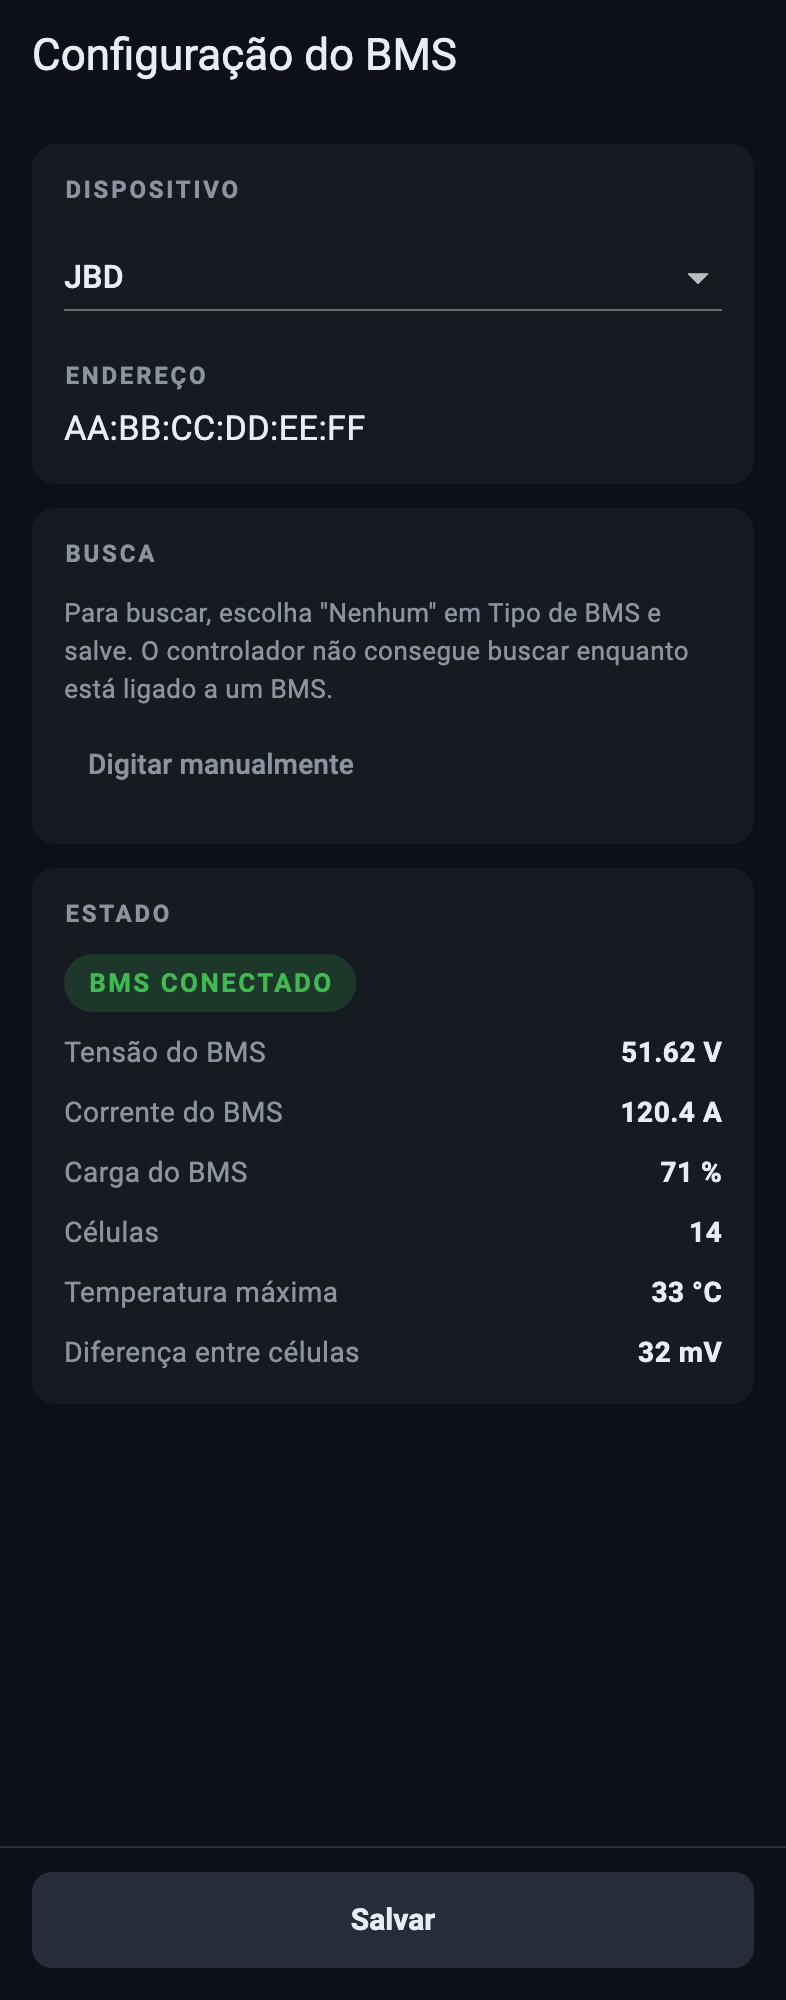
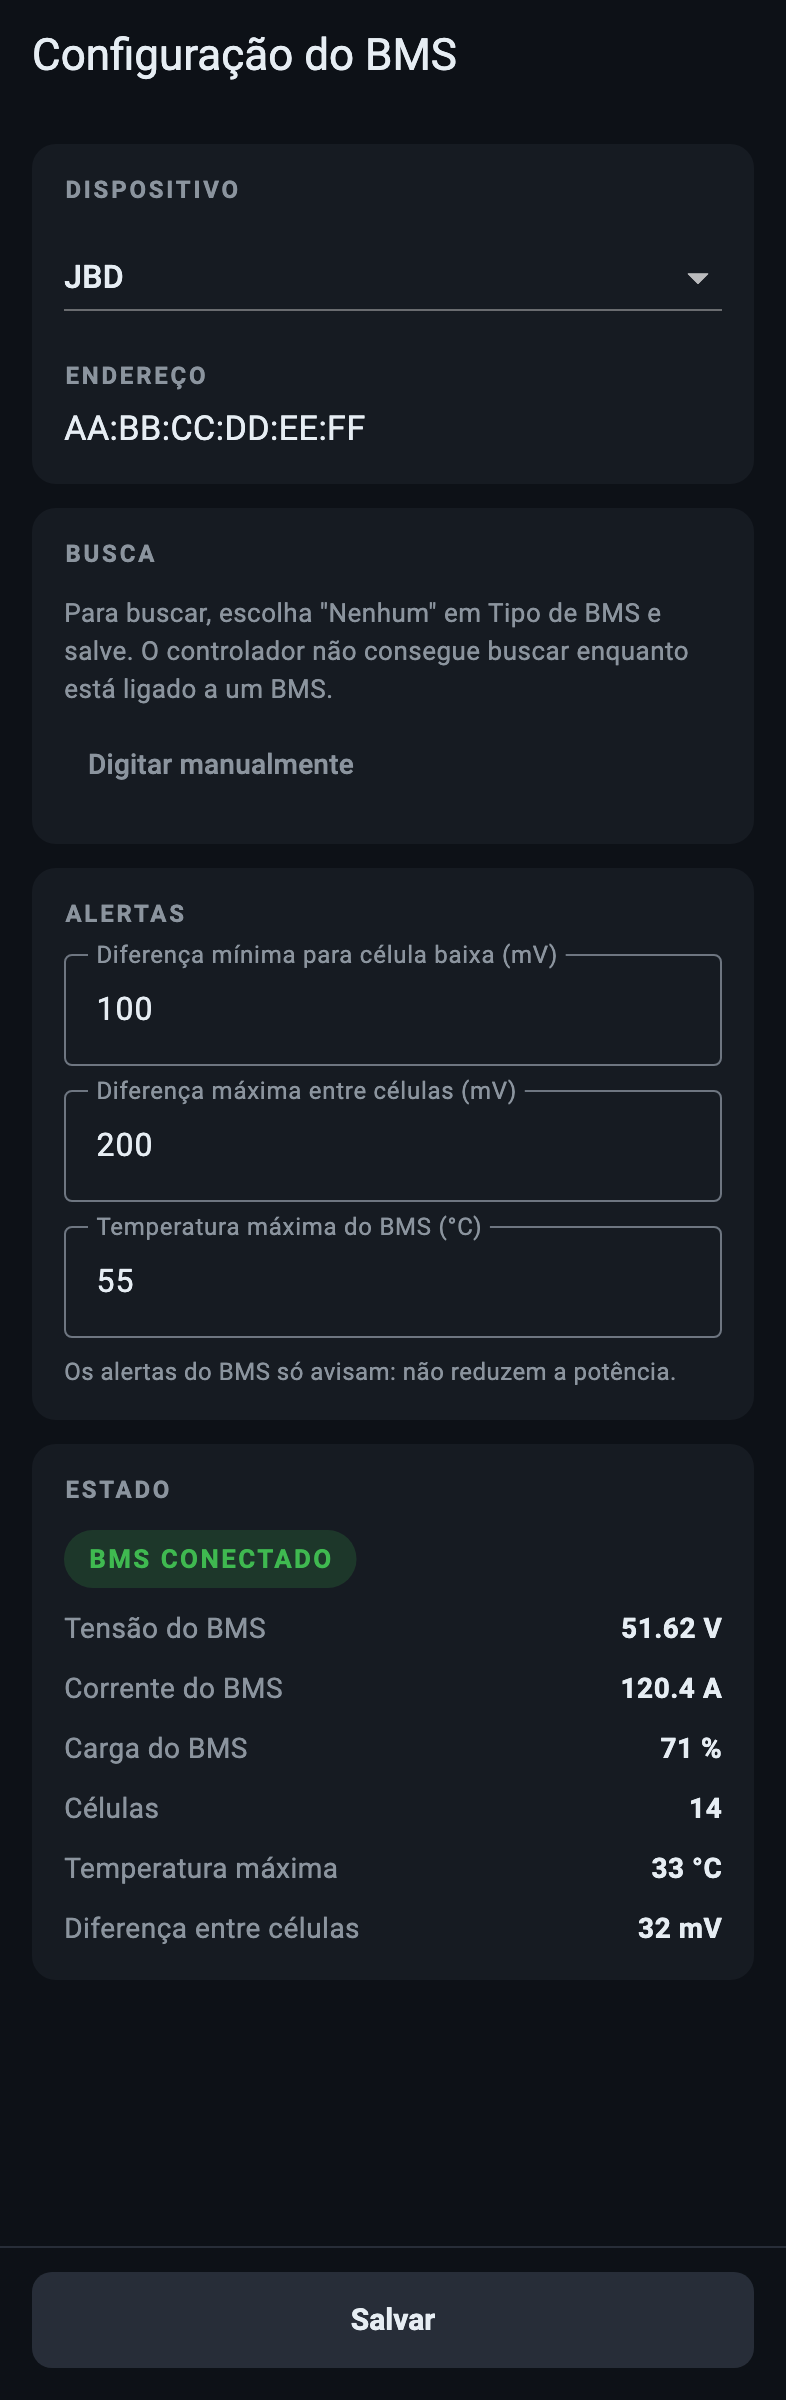
docs(manual): BMS alert screen and thresholds from the app (#90)
The manual already listed the BMS alerts and their three thresholds, but
the app could not show them yet. With fly-app's support in place, it now
has the screenshot of a BMS alert on the flight panel (Figura 6, later
figures renumbered) and the BMS screen with its ALERTAS card. The text
says that the alerts appear armed or disarmed, and that older firmware
shows neither the alerts nor the card.

CLAUDE.md still said BmsAlert needed a live BMS link because the JBD and
Daly drivers kept their last values. The last commit of #88 made every
driver clear its readings on disconnect and dropped that guard.

diff --git a/docs/manual/README.md b/docs/manual/README.md
@@ -232,6 +232,13 @@ Os alertas aparecem sempre no cartão de alerta, nunca em faixas ou janelas. A c
 
 Os três alertas do BMS apenas avisam: eles nunca reduzem a potência nem desarmam o motor. O som toca somente com o sistema armado, no buzzer e no remote. Um alerta só liga ou desliga depois de 3 segundos na mesma condição, e some na hora se a conexão com o BMS cair.
 
+O cartão mostra os alertas do BMS com o sistema armado ou desarmado; só o som depende de estar armado. Eles exigem um firmware com alertas do BMS e uma versão do app que os conheça. Com um firmware mais antigo, nenhum deles aparece.
+
+<p align="center">
+  <img src="img/21_bms_alerta.png" width="300" alt="Célula baixa no BMS"><br>
+  <em>Figura 6: Célula baixa no BMS</em>
+</p>
+
 O cartão de alerta pode ficar âmbar com os mostradores ainda verdes: ele também reflete a limitação que o próprio controlador informa.
 
 ### Desarme por falha
@@ -240,7 +247,7 @@ Quando o controlador desarma por falha, o código aparece em vermelho na barra d
 
 <p align="center">
   <img src="img/05_falha_desarme.png" width="300" alt="Desarme por falha do acelerador (THR ERR)"><br>
-  <em>Figura 6: Desarme por falha do acelerador (THR ERR)</em>
+  <em>Figura 7: Desarme por falha do acelerador (THR ERR)</em>
 </p>
 
 | Código | Alerta | Causa |
@@ -257,7 +264,7 @@ Uma leitura sem valor confiável mostra um traço, nunca zero, com o motivo abai
 
 <p align="center">
   <img src="img/07_sensor_ausente.png" width="300" alt="Temperatura do motor sem leitura"><br>
-  <em>Figura 7: Temperatura do motor sem leitura</em>
+  <em>Figura 8: Temperatura do motor sem leitura</em>
 </p>
 
 ### Perda de conexão
@@ -266,14 +273,14 @@ Se os dados param de chegar por 3 segundos, todos os valores viram traço e a ba
 
 <p align="center">
   <img src="img/06_reconectando.png" width="300" alt="Conexão perdida, app reconectando"><br>
-  <em>Figura 8: Conexão perdida, app reconectando</em>
+  <em>Figura 9: Conexão perdida, app reconectando</em>
 </p>
 
 Toque no indicador de status para escolher: **Reconectar** tenta de novo sem sair do painel; **Desconectar** volta para a tela inicial. Se o último dado dizia ARMADO, o app avisa. Desconectar o app não desliga o motor.
 
 <p align="center">
   <img src="img/10_dialogo_conexao.png" width="300" alt="Toque no indicador de status: Reconectar ou Desconectar"><br>
-  <em>Figura 9: Toque no indicador de status: Reconectar ou Desconectar</em>
+  <em>Figura 10: Toque no indicador de status: Reconectar ou Desconectar</em>
 </p>
 
 ### Gaveta
@@ -287,7 +294,7 @@ Toque na barra CONFIGURAÇÕES no rodapé, ou no cartão de alerta, para abrir a
 
 <p align="center">
   <img src="img/08_gaveta.png" width="300" alt="Gaveta: alertas, som, orientação e configurações"><br>
-  <em>Figura 10: Gaveta: alertas, som, orientação e configurações</em>
+  <em>Figura 11: Gaveta: alertas, som, orientação e configurações</em>
 </p>
 
 ### Detalhes
@@ -301,7 +308,7 @@ Arraste a barra de status para baixo, até cerca de 40 % da altura da tela, para
 
 <p align="center">
   <img src="img/09_detalhes.png" width="300" alt="Tela de detalhes"><br>
-  <em>Figura 11: Tela de detalhes</em>
+  <em>Figura 12: Tela de detalhes</em>
 </p>
 
 ## Configurações
@@ -310,7 +317,7 @@ Abra pela gaveta, em Configurações, com a aeronave desarmada. O topo mostra a 
 
 <p align="center">
   <img src="img/12_configuracoes.png" width="300" alt="Índice de configurações"><br>
-  <em>Figura 12: Índice de configurações</em>
+  <em>Figura 13: Índice de configurações</em>
 </p>
 
 ### PIN de configuração
@@ -319,7 +326,7 @@ Ver as configurações não pede PIN. O PIN é pedido na primeira gravação de 
 
 <p align="center">
   <img src="img/20_pin.png" width="300" alt="Pedido do PIN na primeira gravação"><br>
-  <em>Figura 13: Pedido do PIN na primeira gravação</em>
+  <em>Figura 14: Pedido do PIN na primeira gravação</em>
 </p>
 
 | Ação | Pede PIN |
@@ -339,7 +346,7 @@ O relógio do controlador é acertado pelo app automaticamente a cada conexão, 
 
 <p align="center">
   <img src="img/13_energia.png" width="300" alt="Bateria e Energia"><br>
-  <em>Figura 14: Bateria e Energia</em>
+  <em>Figura 15: Bateria e Energia</em>
 </p>
 
 | Parâmetro | Descrição | Faixa |
@@ -363,7 +370,7 @@ Com um BMS JBD ou JK conectado, o controlador usa a capacidade que o BMS informa
 
 <p align="center">
   <img src="img/14_termica.png" width="300" alt="Proteção Térmica"><br>
-  <em>Figura 15: Proteção Térmica</em>
+  <em>Figura 16: Proteção Térmica</em>
 </p>
 
 | Parâmetro | Descrição | Faixa |
@@ -382,7 +389,7 @@ Esses valores são os traços âmbar e vermelho dos mostradores de temperatura n
 
 <p align="center">
   <img src="img/15_bms.png" width="300" alt="BMS configurado e conectado"><br>
-  <em>Figura 16: BMS configurado e conectado</em>
+  <em>Figura 17: BMS configurado e conectado</em>
 </p>
 
 | Parâmetro | Descrição |
@@ -395,13 +402,15 @@ Esses valores são os traços âmbar e vermelho dos mostradores de temperatura n
 
 Os alertas do BMS só avisam: não reduzem a potência. Os limites ficam salvos no controlador.
 
+Os três limites ficam no cartão Alertas, que só aparece com um firmware que tenha os alertas do BMS. Com um firmware mais antigo, a tela mostra apenas o tipo e o endereço.
+
 A seção Estado mostra a conexão com o BMS e, quando conectado, a tensão, a corrente, a carga, o número de células, a temperatura máxima e a diferença entre células.
 
 **Busca:** o botão Buscar BMS só aparece quando o tipo gravado é Nenhum, porque o controlador não consegue buscar enquanto está ligado a um BMS. Para trocar de BMS, escolha Nenhum, salve e então busque. A busca leva 5 segundos; durante esse tempo o controlador não aparece para novas conexões.
 
 <p align="center">
   <img src="img/16_bms_busca.png" width="300" alt="BMS: busca disponível sem BMS configurado"><br>
-  <em>Figura 17: BMS: busca disponível sem BMS configurado</em>
+  <em>Figura 18: BMS: busca disponível sem BMS configurado</em>
 </p>
 
 Toque num resultado para preencher o endereço. Se o BMS se identificou, o tipo também é preenchido; senão, escolha o tipo na lista. Quando há muitos dispositivos, a lista mostra "Mostrando N de M".
@@ -410,7 +419,7 @@ Toque num resultado para preencher o endereço. Se o BMS se identificou, o tipo 
 
 <p align="center">
   <img src="img/17_sistema.png" width="300" alt="Sistema: buzzer, acelerador, remote, cronômetro e PIN"><br>
-  <em>Figura 18: Sistema: buzzer, acelerador, remote, cronômetro e PIN</em>
+  <em>Figura 19: Sistema: buzzer, acelerador, remote, cronômetro e PIN</em>
 </p>
 
 | Parâmetro | Descrição | Padrão |
@@ -433,7 +442,7 @@ Lista os registros gravados no controlador, do mais recente para o mais antigo, 
 
 <p align="center">
   <img src="img/18_registros.png" width="300" alt="Registros de voo"><br>
-  <em>Figura 19: Registros de voo</em>
+  <em>Figura 20: Registros de voo</em>
 </p>
 
 - Toque no ícone de compartilhar para baixar o registro (CSV) e enviá-lo pela folha de compartilhamento do celular. No navegador, escolha Compartilhar, Salvar arquivo ou Abrir.
@@ -446,7 +455,7 @@ No app para Android, a tela compara o firmware do controlador com a versão mais
 
 <p align="center">
   <img src="img/19_firmware.png" width="300" alt="Firmware: nova versão disponível no GitHub"><br>
-  <em>Figura 20: Firmware: nova versão disponível no GitHub</em>
+  <em>Figura 21: Firmware: nova versão disponível no GitHub</em>
 </p>
 
 1. Toque em **Baixar** (ou em **Escolher arquivo .bin**).

diff --git a/CLAUDE.md b/CLAUDE.md
@@ -137,7 +137,7 @@ All tunable parameters live in `Settings/` and are stored via `ESP32 Preferences
 
 ## BMS alerts
 
-`BmsAlert` (`src/BmsAlert/`) raises three informational alerts from BMS data: **low cell** (min cell at or under the per-cell cutoff *and* cell delta above a gate), **high delta** (delta above a maximum) and **high temperature** (BMS max probe temperature at or above a limit). The per-cell cutoff is `Settings::getBatteryMinVoltage()` divided by the cell count the BMS reports (`BluetoothBms::getCellCount()`, never `BATTERY_CELL_COUNT`); cell count 0 disables low cell. Defaults: delta gate 100 mV, max delta 200 mV, temp limit 55 C (ranges 20-500 mV, 50-1000 mV, 30-80 C, persisted in `Settings`). Hysteresis: low cell exits at cell >= cutoff + 50 mV or delta < gate - 10 mV; delta exits 10 mV under the max; temperature exits 3 C under the limit. Every edge is debounced 3 s (`BMS_ALERT_DEBOUNCE_MS`), except that unavailable BMS data clears the alerts at once; availability also requires a live BMS link, since the JBD and Daly drivers keep their last values after a disconnect.
+`BmsAlert` (`src/BmsAlert/`) raises three informational alerts from BMS data: **low cell** (min cell at or under the per-cell cutoff *and* cell delta above a gate), **high delta** (delta above a maximum) and **high temperature** (BMS max probe temperature at or above a limit). The per-cell cutoff is `Settings::getBatteryMinVoltage()` divided by the cell count the BMS reports (`BluetoothBms::getCellCount()`, never `BATTERY_CELL_COUNT`); cell count 0 disables low cell. Defaults: delta gate 100 mV, max delta 200 mV, temp limit 55 C (ranges 20-500 mV, 50-1000 mV, 30-80 C, persisted in `Settings`). Hysteresis: low cell exits at cell >= cutoff + 50 mV or delta < gate - 10 mV; delta exits 10 mV under the max; temperature exits 3 C under the limit. Every edge is debounced 3 s (`BMS_ALERT_DEBOUNCE_MS`), except that unavailable BMS data clears the alerts at once. Availability alone is enough for that: every BMS driver clears its readings when the link drops (see `src/CLAUDE.md`, BluetoothBms).
 
 Sound plays only while armed, reusing `TempProtectionAlertLogic`'s cadence (0, 10, 30, 60 s, then every 60 s, and a rising "all clear" motif when the mask returns to zero) with its own motif (`SoundEvent::BmsAlert`, three long 2200 Hz pulses) and `RemoteBeep::Alert` on the remote. The bitmask is exposed by `getActiveAlerts()` regardless of armed state. **These alerts never reach `Power`: they never limit the motor and never disarm.** The decision logic is `src/BmsAlert/BmsAlertLogic.h`, host-tested in `test/BmsAlertLogicTest.cpp`.
 
